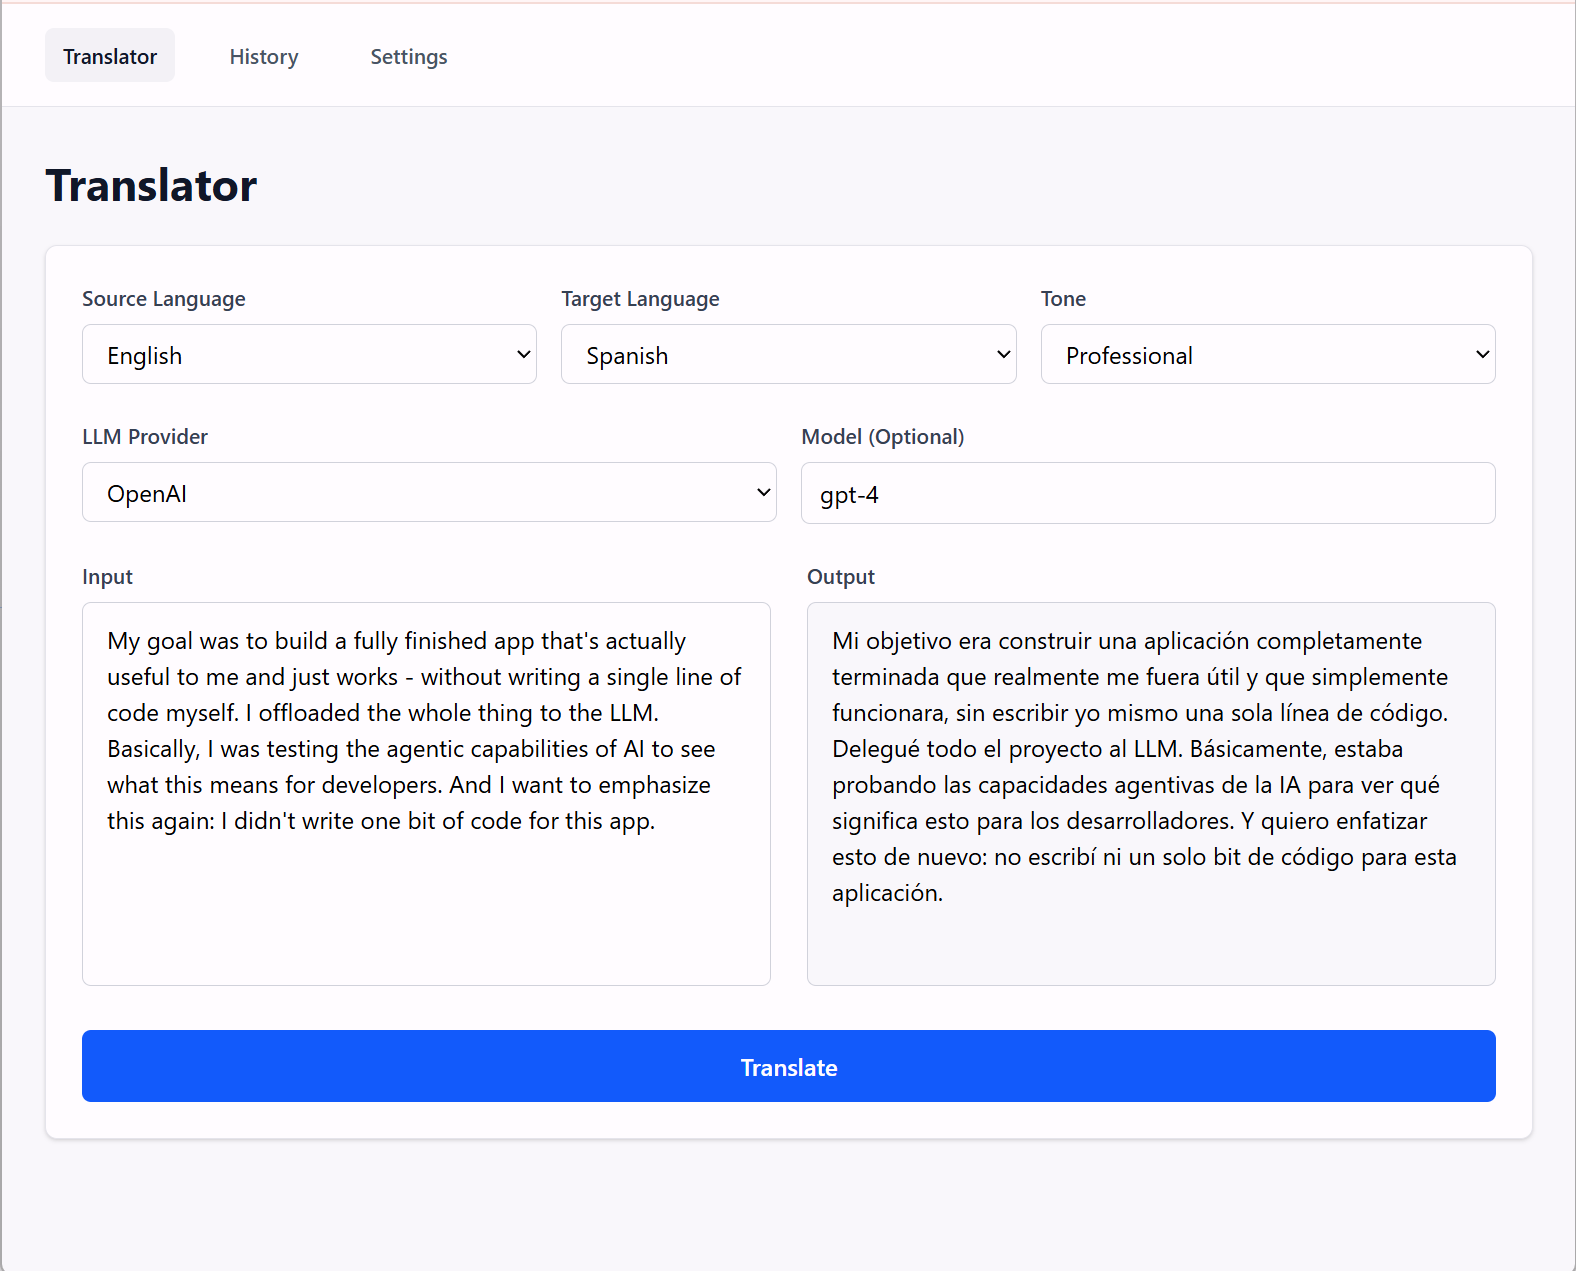
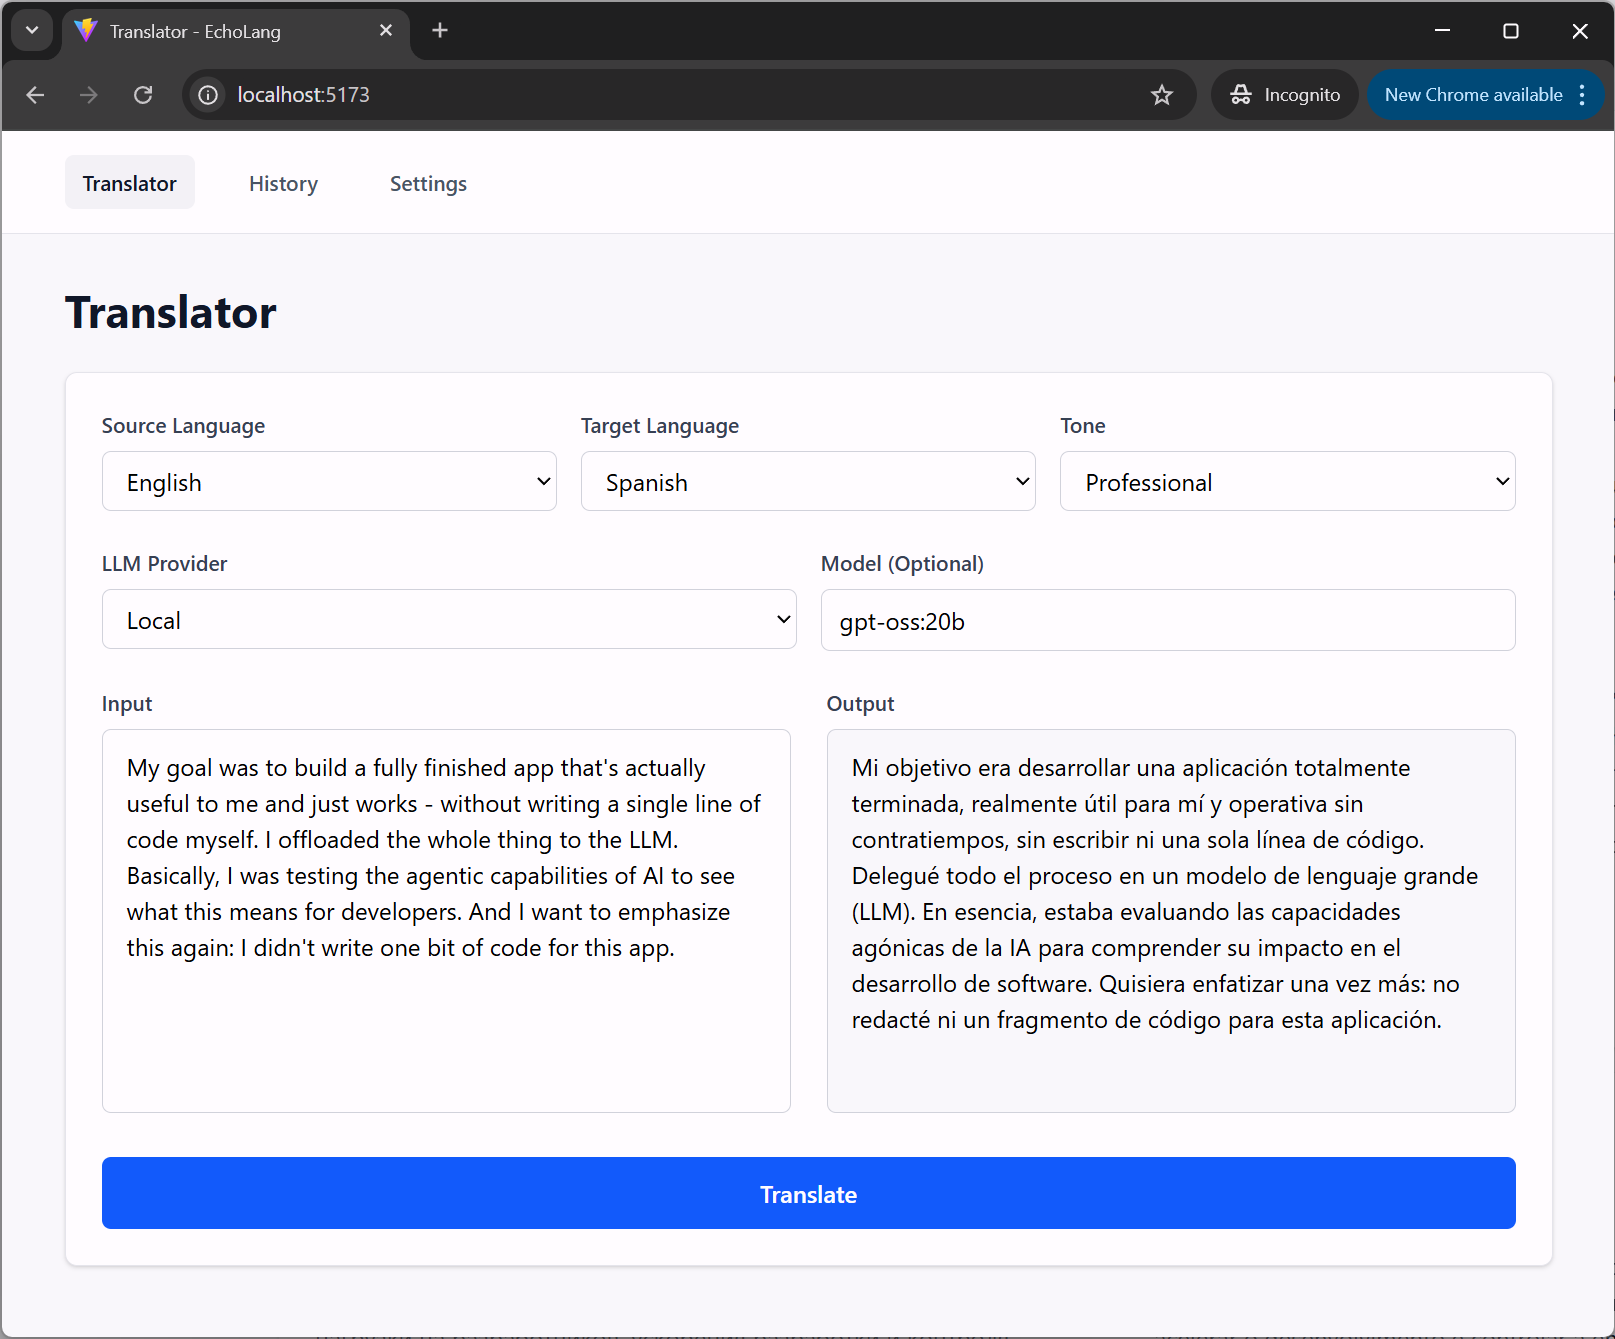
Add main screenshot & rework readme

diff --git a/README.md b/README.md
@@ -2,13 +2,7 @@
 
 A minimal web-based LLM Translator for single-user local deployment. Translate text using various LLM providers (OpenAI, Anthropic, Gemini, or local LLMs) with customizable tones and styles.
 
-## Features
-
-- **Multi-Provider Support**: OpenAI, Anthropic, Gemini, and local LLMs
-- **Custom Tones**: Define and manage custom translation styles (e.g., 'Official', 'Slang', 'Financial')
-- **Translation History**: View and manage past translations
-- **Secure API Key Storage**: API keys encrypted at rest using AES-256-GCM
-- **Settings Management**: CRUD operations for tones and API key configuration
+![Screenshot 1](docs/screenshots/Screenshot1.png)
 
 ## Disclaimer
 
@@ -20,114 +14,24 @@ It works for me, but it comes with **no warranties**. Always audit the code befo
 
 During the development of this project, I kept records of all the prompts I used with the agents, along with tracked timings for each major task. You’ll find all of these details in [docs/HISTORY.md](docs/HISTORY.md). If you’re interested in repeating this experiment or trying something similar, feel free to use this file as a reference.
 
-## Screenshots
+## Features
 
-![Screenshot 1](docs/screenshots/Screenshot1.png)
-![Screenshot 2](docs/screenshots/Screenshot2.png)
-![Screenshot 3](docs/screenshots/Screenshot3.png)
+- **Multi-Provider Support**: OpenAI, Anthropic, Gemini, and local LLMs
+- **Custom Tones**: Define and manage custom translation styles (e.g., 'Official', 'Slang', 'Financial')
+- **Translation History**: View and manage past translations
+- **Secure API Key Storage**: API keys encrypted at rest using AES-256-GCM
+- **Settings Management**: CRUD operations for tones and API key configuration
 
 ## Tech Stack
 
 - **Backend**: Node.js v24, TypeScript, Express.js, SQLite with Prisma
 - **Frontend**: React, Vite, TypeScript, Tailwind CSS
 
-## Getting Started
+## Documentation
 
-### Prerequisites
-
-- Node.js v24 or higher
-- npm
-
-### Installation
-
-1. Clone the repository:
-```bash
-git clone <repository-url>
-cd echolang
-```
-
-2. Install backend dependencies:
-```bash
-cd backend
-npm install
-```
-
-3. Install frontend dependencies:
-```bash
-cd ../frontend
-npm install
-```
-
-### Configuration
-
-1. Set up backend environment variables:
-```bash
-cd backend
-cp .env.example .env
-```
-
-2. Generate an encryption key:
-```bash
-openssl rand -base64 32
-```
-
-3. Update `backend/.env` with your encryption key:
-```env
-ENCRYPTION_KEY="your-generated-key-here"
-```
-
-4. Set up frontend environment variables:
-```bash
-cd ../frontend
-cp .env.example .env
-```
-
-### Database Setup
-
-1. Generate Prisma client:
-```bash
-cd backend
-npm run prisma:generate
-```
-
-2. Run database migrations:
-```bash
-npm run prisma:migrate
-```
-
-### Running the Application
-
-1. Start the backend server:
-```bash
-cd backend
-npm run dev
-```
-
-The backend will run on `http://localhost:3000`
-
-2. Start the frontend development server:
-```bash
-cd frontend
-npm run dev
-```
-
-The frontend will run on `http://localhost:5173` (or the next available port)
-
-### Production Build
-
-1. Build the backend:
-```bash
-cd backend
-npm run build
-npm start
-```
-
-2. Build the frontend:
-```bash
-cd frontend
-npm run build
-npm run preview
-```
+- [Architecture](ARCHITECTURE.md)
+- [Development Guide](docs/DEVELOPMENT.md)
+- [Coding Standards](docs/CODING_STANDARDS.md)
 
 ## License
 
